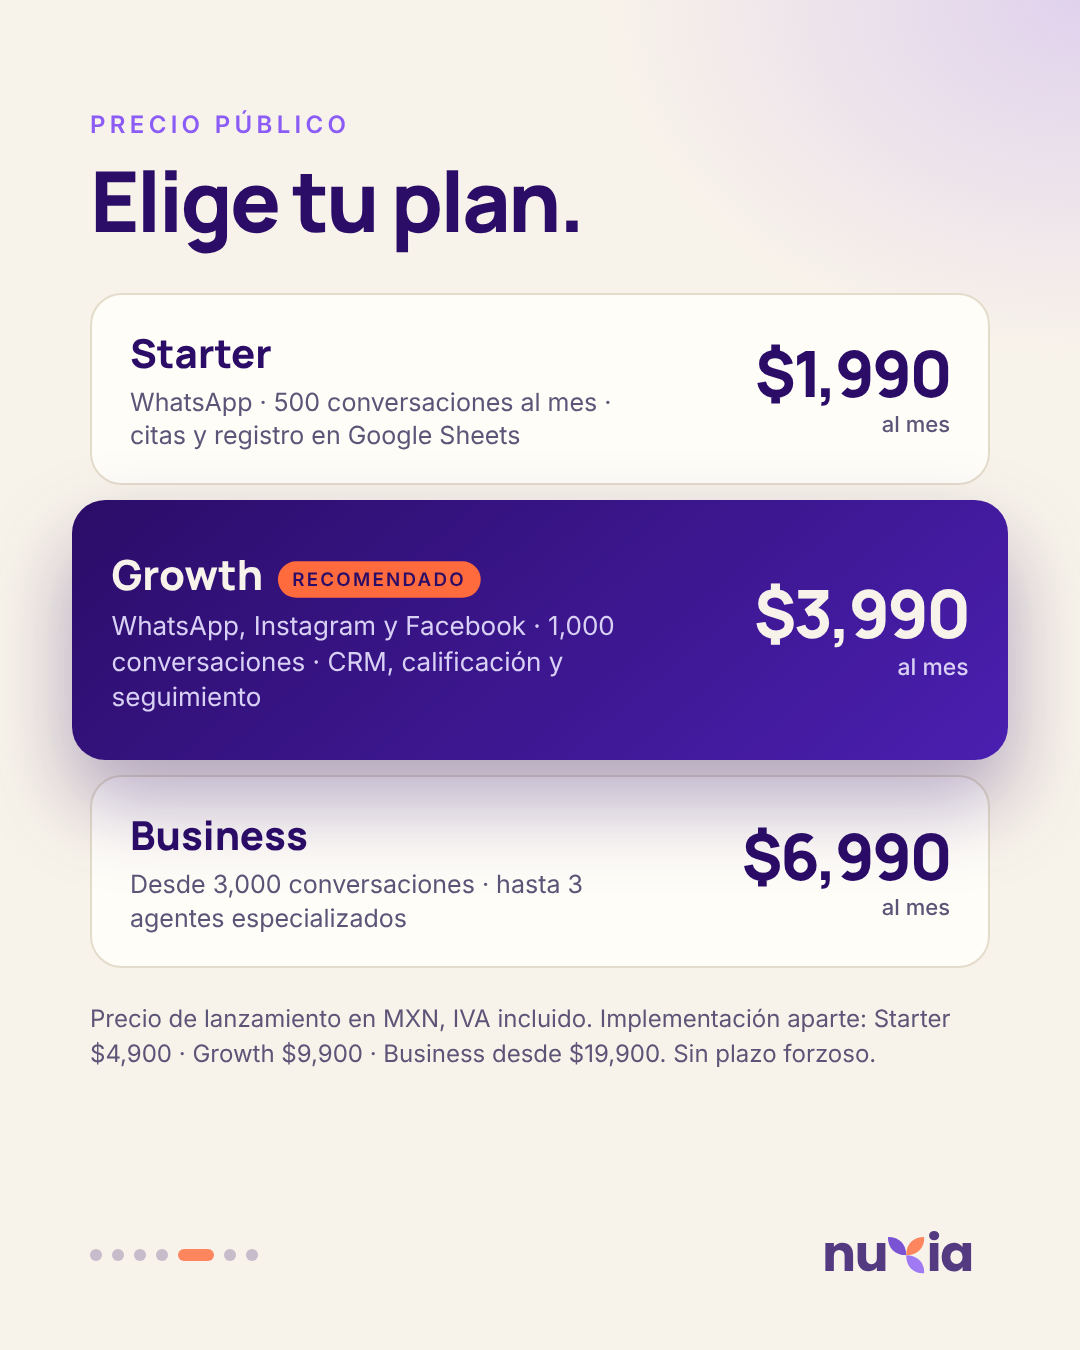
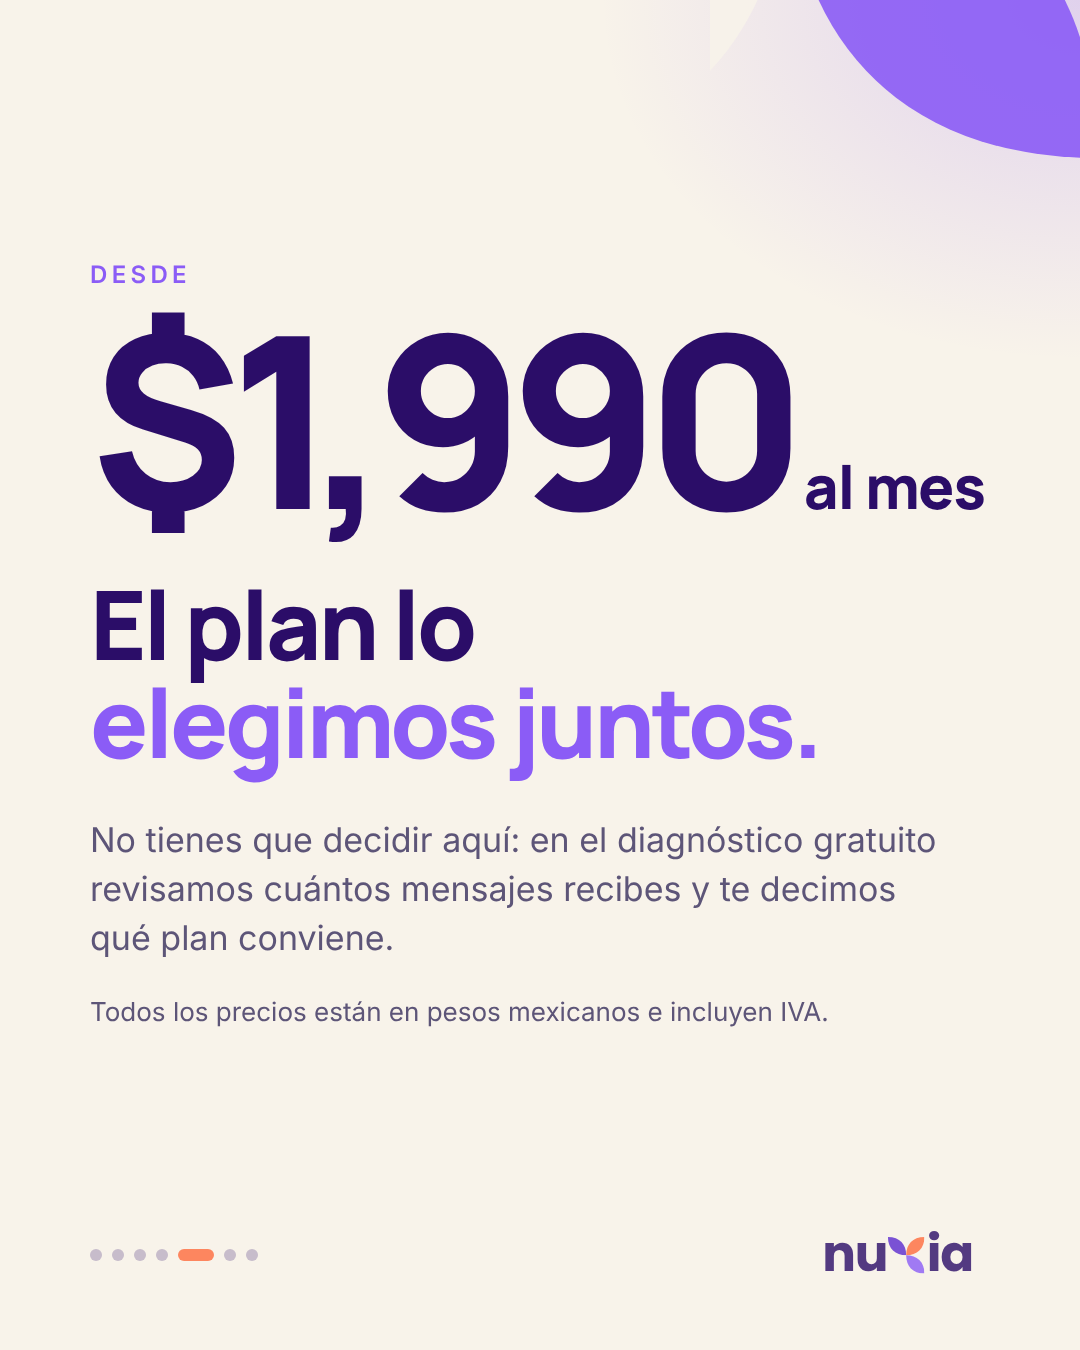
Show 'desde' pricing on NUXIA carousel v2 slide 5
Claude-Session: https://claude.ai/code/session_01RpdhzdgHMRmNgYoTxhaPEJ

diff --git a/assets/banners/nuxia-sales-agent-carrusel/v2/carrusel.html b/assets/banners/nuxia-sales-agent-carrusel/v2/carrusel.html
@@ -599,39 +599,34 @@
     <!-- 5 PLANES -->
     <section class="s light" id="s5">
       <div class="in">
-        <div class="k">Precio público</div>
-        <h2 style="margin-top: 18px">Elige tu plan.</h2>
-        <div class="plans">
-          <div class="pl">
-            <div>
-              <div class="n">Starter</div>
-              <div class="d">
-                WhatsApp · 500 conversaciones al mes · citas y registro en Google Sheets
-              </div>
-            </div>
-            <div class="p">$1,990<span>al mes</span></div>
-          </div>
-          <div class="pl rec">
-            <div>
-              <div class="n">Growth<span class="tag">Recomendado</span></div>
-              <div class="d">
-                WhatsApp, Instagram y Facebook · 1,000 conversaciones · CRM, calificación y
-                seguimiento
-              </div>
-            </div>
-            <div class="p">$3,990<span>al mes</span></div>
-          </div>
-          <div class="pl">
-            <div>
-              <div class="n">Business</div>
-              <div class="d">Desde 3,000 conversaciones · hasta 3 agentes especializados</div>
-            </div>
-            <div class="p">$6,990<span>al mes</span></div>
-          </div>
+        <svg
+          class="pet"
+          viewBox="214 214 572 572"
+          style="width: 620px; right: -250px; top: -230px; opacity: 0.9"
+        >
+          <use href="#sym" />
+        </svg>
+        <div class="k" style="margin-top: 150px">Desde</div>
+        <div class="mega" style="margin-top: 20px; font-size: 240px">
+          $1,990<small> al mes</small>
         </div>
-        <p class="note">
-          Precio de lanzamiento en MXN, IVA incluido. Implementación aparte: Starter $4,900 · Growth
-          $9,900 · Business desde $19,900. Sin plazo forzoso.
+        <h2 style="font-size: 96px; margin-top: 50px">
+          El plan lo<br /><span style="color: var(--j)">elegimos juntos.</span>
+        </h2>
+        <p
+          style="
+            font-size: 34px;
+            line-height: 1.45;
+            color: #5d5578;
+            margin-top: 44px;
+            max-width: 860px;
+          "
+        >
+          No tienes que decidir aquí: en el diagnóstico gratuito revisamos cuántos mensajes recibes
+          y te decimos qué plan conviene.
+        </p>
+        <p class="note" style="font-size: 26px; margin-top: 30px">
+          Todos los precios están en pesos mexicanos e incluyen IVA.
         </p>
       </div>
       <div class="foot" style="color: var(--m)">

diff --git a/assets/banners/nuxia-sales-agent-carrusel/texto-publicacion.md b/assets/banners/nuxia-sales-agent-carrusel/texto-publicacion.md
@@ -14,7 +14,7 @@ Así lo atiende NUXIA Sales Agent:
 
 Trabaja con tu equipo, no en lugar de tu equipo. La venta la cierras tú.
 
-Los planes tienen precio público y van desde $1,990 al mes (IVA incluido). Desliza para ver cuál te conviene.
+Desde $1,990 al mes, en pesos mexicanos e IVA incluido. El plan lo elegimos juntos: en el diagnóstico gratuito revisamos cuántos mensajes recibes y te decimos cuál conviene.
 
 ¿Quieres verlo con la información de tu negocio? Escríbenos «DIAGNÓSTICO» por WhatsApp (enlace en el perfil) y lo revisamos juntos en 30 minutos, sin compromiso 🧡
 
@@ -26,7 +26,7 @@ Los planes tienen precio público y van desde $1,990 al mes (IVA incluido). Desl
 2. Ejemplo de conversación de WhatsApp: un prospecto pregunta precio y cita a las 10:47 p. m. y el agente responde con horarios.
 3. El prospecto elige las 10:00; el agente confirma la cita y aparece registrada en el calendario.
 4. Aviso para el asesor: el prospecto quiere saber de ortodoncia y la conversación está lista para seguirla.
-5. Planes: Starter $1,990, Growth $3,990 (recomendado) y Business $6,990 al mes, IVA incluido.
+5. Desde $1,990 al mes. El plan lo elegimos juntos en el diagnóstico gratuito. Precios en pesos mexicanos con IVA incluido.
 6. Programa Clientes Fundadores: Growth a $3,990 al mes por 12 meses e implementación de $4,900.
 7. Diagnóstico gratuito de 30 minutos por Google Meet. Escríbenos «DIAGNÓSTICO» por WhatsApp.
 
